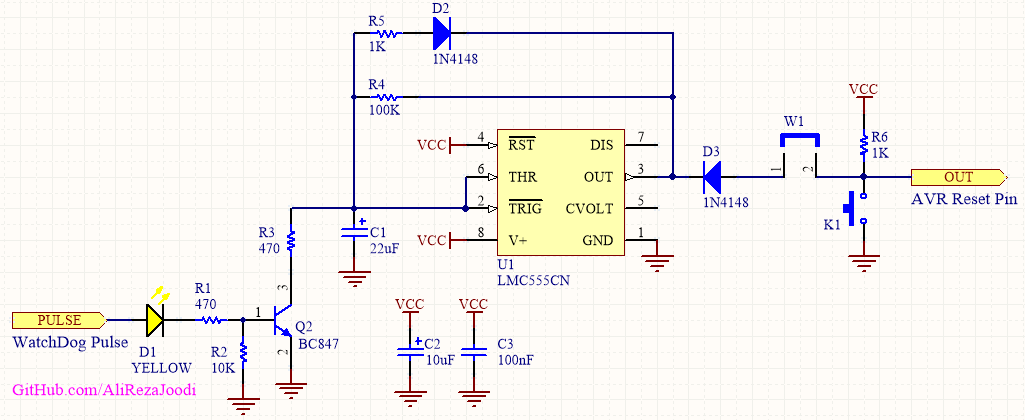
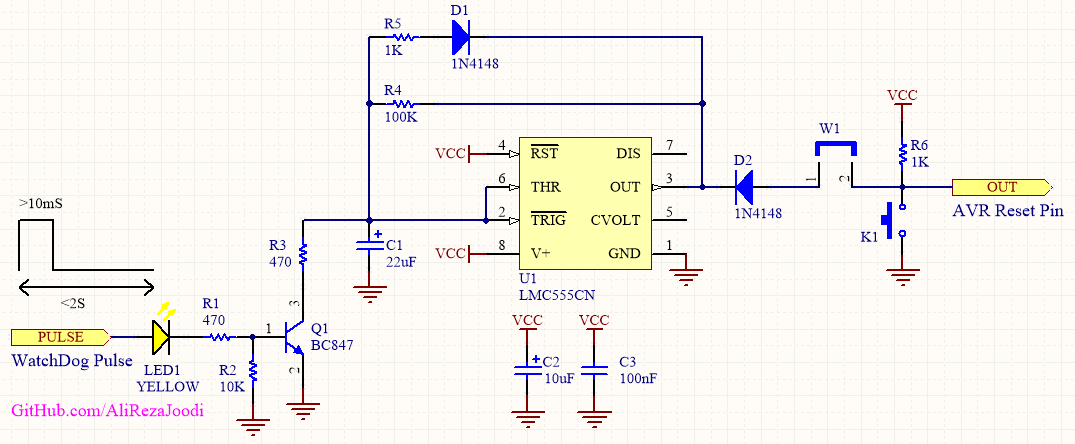
Update

diff --git a/MCU_WatchDog/Hardware/ReadMe.md b/MCU_WatchDog/Hardware/ReadMe.md
@@ -1,7 +1,14 @@
 ### Description
 
+v2.0:
+- Included schematic
+- Last opened with Altium Designer Version 15.0.15
+- Included watchdog and a rest button
+- Limiting the charge current of the 22uF capacitor
+- Best Version
+
 v1.0:
 - Included schematic
 - Last opened with Altium Designer Version 15.0.15
-- Included Watchdog and button rest
+- Included watchdog and a rest button
 - Made and tested successfully
